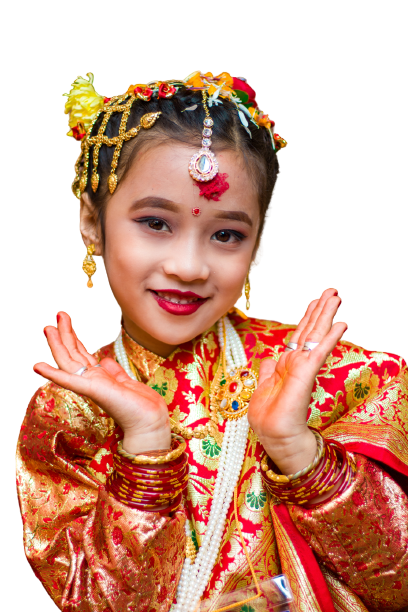
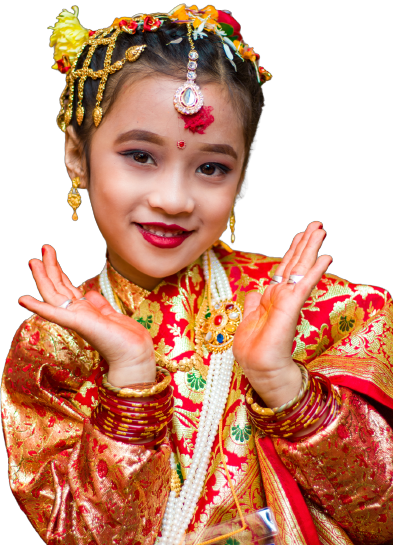
Homepage | Further tweaks with styling and fonts

diff --git a/public/css/app.css b/public/css/app.css
@@ -21144,7 +21144,7 @@ body {
 }
 
 .slogan {
-  font-size: 50px;
+  font-size: 40px;
   font-family: Segoe Print, Segoe Script, Verdana, Arial, Tahoma, Serif;
 }
 
@@ -21152,12 +21152,12 @@ body {
 * Fonts
 */
 .font-large1 {
-  font-size: 50px;
+  font-size: 28px;
   font-family: Calibri, Arial, Verdana, Tahoma, Serif;
 }
 
 .font-medium1 {
-  font-size: 25px;
+  font-size: 17px;
   font-family: Calibri, Arial, Verdana, Tahoma, Serif;
 }
 

diff --git a/resources/sass/app.scss b/resources/sass/app.scss
@@ -42,7 +42,7 @@ body {
 }
 
 .slogan {
-    font-size: 50px;
+    font-size: 40px;
     font-family: Segoe Print, Segoe Script, Verdana, Arial, Tahoma, Serif;
 }
 
@@ -51,12 +51,12 @@ body {
 */
 
 .font-large1 {
-    font-size: 50px;
+    font-size: 28px;
     font-family: Calibri, Arial, Verdana, Tahoma, Serif;
 }
 
 .font-medium1 {
-    font-size: 25px;
+    font-size: 17px;
     font-family: Calibri, Arial, Verdana, Tahoma, Serif;
 }
 

diff --git a/resources/views/welcome.blade.php b/resources/views/welcome.blade.php
@@ -20,41 +20,44 @@
         @include('navigation')
         <div class="container-fluid">
             <div class="row">
-                <section class="row margin-padding-right-0">
+                <section class="row margin-padding-right-0 mt-5">
                     <div class="col-lg-8 col-md-8 col-sm-6 col-xs-12 d-flex align-items-center text-center">
                             <p class="col-12 slogan text-center">Nepali Gems <br> for Nepali People</p>
                     </div>
                     <div class="col-lg-4 col-md-4 col-sm-12 col-xs-12">
                         <div class="float-end">
                             <img src="/images/girl-with-jewellery.png" alt="Girl with jewellery">
+                            <!-- <img src="/images/girl-with-jewellery.jpeg" alt="Girl with jewellery"> -->
                         </div>
                     </div>
                 </section>
 
                 <section class="row-fluid padding-top-lg alternate-body-color">
                     <div class="row">
-                        <p class="col-12 font-large1 text-center m-0">Opening soon at</p>
+                        <div class="col-lg-4">
+                            <img class="d-none d-md-none d-lg-inline" src="/images/namaste-woman.png" alt="Girl with jewellery">
+                        </div>
+                        
+                        <!-- <p class="col-12 font-large1 text-center m-0">Opening soon at</p> -->
                         <div class="col-lg-8 col-md-8 col-sm-8 col-xs-12 padding-bottom-lg d-flex flex-row justify-content-center align-items-center">
                             <div class="row">
+                                <p class="col-12 font-large1 text-center m-0">Opening soon at</p>
                                 <p class="col-12 pt-2 font-medium1 text-center">38 High Street, Ashford, Kent, TN24 8TE</p>
                                 <iframe src="https://www.google.com/maps/embed?pb=!1m18!1m12!1m3!1d2502.7920446029852!2d0.8717388152675026!3d51.14918584465245!2m3!1f0!2f0!3f0!3m2!1i1024!2i768!4f13.1!3m3!1m2!1s0x47deda448973dac3%3A0xc7bdb37a771e6e2e!2s38%20High%20St%2C%20Ashford%20TN24%208TE!5e0!3m2!1sen!2suk!4v1672098434896!5m2!1sen!2suk" 
                                     width="400" height="300" style="border:0;" allowfullscreen="" loading="lazy" referrerpolicy="no-referrer-when-downgrade">
                                 </iframe>
                             </div>
                         </div>
-    
-                        <div class="col-lg-4">
-                            <img class="d-none d-md-none d-lg-inline" src="/images/namaste-woman.png" alt="Girl with jewellery">
-                        </div>
                     </div>
                 </section>
 
-
                 <section class="row">
-                    <div class="col-lg-4 col-md-4 col-sm-6 col-xs-12">
-                        <img class="img-fluid" src="/images/sitting-down-girl.png" alt="Girl with jewellery">
+                    <div class="col-lg-6 col-md-4 col-sm-6 col-xs-12 ">
+                        <div class="float-end">
+                            <img src="/images/sitting-down-girl.png" alt="Girl sitting down">
+                        </div>
                     </div>
-                    <div class="col-lg-8 col-md-8 col-sm-6 col-xs-12 d-flex flex-row justify-content-center align-items-center">
+                    <div class="col-lg-6 col-md-8 col-sm-6 col-xs-12 d-flex flex-row justify-content-center align-items-center">
                         <div class="row">
                             <p class="col-12 font-large1 text-center m-0">Contact Us</p>
                             <p class="col-12 font-medium1 text-center ps-1"> <i class="fa fa-phone pe-1"></i> 07562692683</p>
